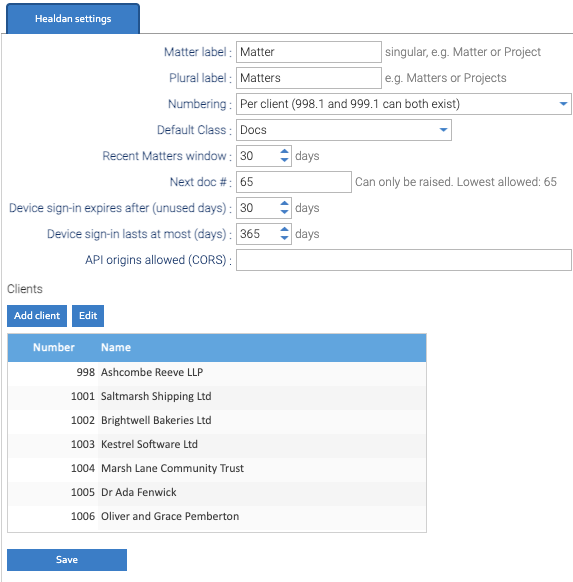
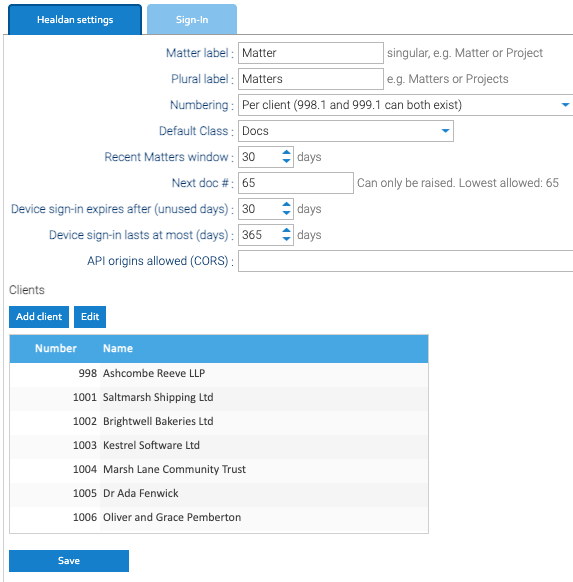
Show sign-in providers in the docs' screenshots
From a demo stack with a provider set up by hand in the Sign-In tab, taken
in headless Chrome at a true 1280 x 800 and signed in as sokafor:

- Signing In: the sign-in box with the Sign In with Microsoft button and
  the password link, beside the password-only picture;
- Healdan Settings: the panel retaken, so its tab bar shows the Sign-In
  tab, with the same view and size as before;
- Healdan Settings: the Sign-In tab with the provider in its list, and the
  provider's window down to its Save, Check and Close.

The provider uses the Entra ID preset. Its saved issuer is a throwaway
Keycloak's, which Healdan could reach; the window's picture shows an
Entra ID issuer, typed and not saved, with invented ids. The redirect
address reads healdan.example, from LOGICALDOC_PUBLIC_URL.

Changed region(s): [[0.0, 0.0, 1.0, 1.0], [0.4154, 0.4639, 1.0, 0.4948]]

diff --git a/site/content/admin/healdan-settings/index.md b/site/content/admin/healdan-settings/index.md
@@ -7,7 +7,7 @@ Healdan's own settings are under **Administration → Healdan → Settings**. Cl
 Clients are saved from their own window, without Save. Signing in through a provider, such as Microsoft Entra ID,
 is set up on the **Sign-In** tab beside them: see [Sign-In Providers](#sign-in-providers).
 
-![The Healdan settings panel: matter labels, numbering, default Class, the Recent Matters window, the next doc #, the two device sign-in limits, API origins allowed (CORS), and the client list with Add client and Edit, holding seven clients from 998 Ashcombe Reeve LLP to 1006 Oliver and Grace Pemberton](healdan-settings.png)
+![The Healdan settings panel, with the Sign-In tab beside it: matter labels, numbering, default Class, the Recent Matters window, the next doc #, the two device sign-in limits, API origins allowed (CORS), and the client list with Add client and Edit, holding seven clients from 998 Ashcombe Reeve LLP to 1006 Oliver and Grace Pemberton](healdan-settings.png)
 
 | Setting | What it does |
 |---|---|
@@ -113,6 +113,8 @@ ID, Authentik and others.
 
 ### The Sign-In Tab
 
+![The Sign-In tab: Add, Edit, Remove, Move Up and Move Down above the list of providers, which holds Sign In with Microsoft, id entra, preset Microsoft Entra ID, on, with no accounts linked; below it the options, with the password link's label, the admin alert and its recipients, and Outgoing Email saying it needs outgoing email, which isn't set up](sign-in-tab.png)
+
 | Part | What it does |
 |---|---|
 | Providers | each provider, with its label, id and preset, whether it's on, and how many accounts are linked to it, in the order of their buttons on the sign-in page |
@@ -127,6 +129,8 @@ ID, Authentik and others.
 **Save**, under the options, saves the password link's label and the alert. A provider is saved from its own window.
 
 ### A Provider's Settings
+
+![The Sign In with Microsoft provider's window: id entra and preset Microsoft Entra ID, the button label, an Entra ID issuer and client ID, an empty Client Secret marked Set, On and Link by Email ticked, the redirect address with its copy icon, the folded Claims, and a group map from two Entra ID group object ids to Fee Earners and Partners](provider-window.png)
 
 | Setting | What it holds |
 |---|---|

diff --git a/site/content/user/getting-started/signing-in/index.md b/site/content/user/getting-started/signing-in/index.md
@@ -34,6 +34,8 @@ administrator has set one up, the sign-in page shows a button for each, above th
 2. Sign in at the provider, as you do there for anything else. Healdan never sees your password.
 3. The provider sends you back, and Healdan opens.
 
+![Healdan's sign-in box with a provider set up: the Sign In with Microsoft button, and beneath it the Sign In with a Password link, which unfolds the password form](sign-in-provider.png)
+
 The first time, Healdan either finds your account or makes one for you, and puts you in the groups your
 administrator has matched to yours at the provider. You don't set a password. An account that signs in through a
 provider has none, so **Change password** and **Lost your password?** don't apply to it.
